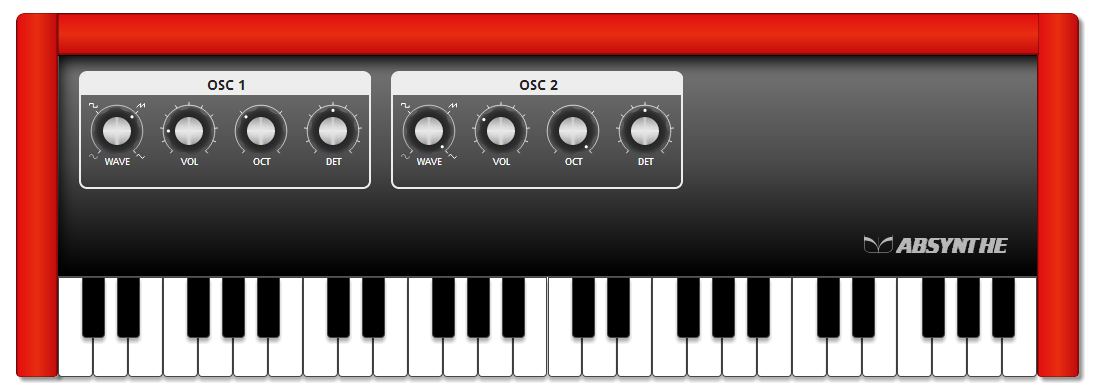
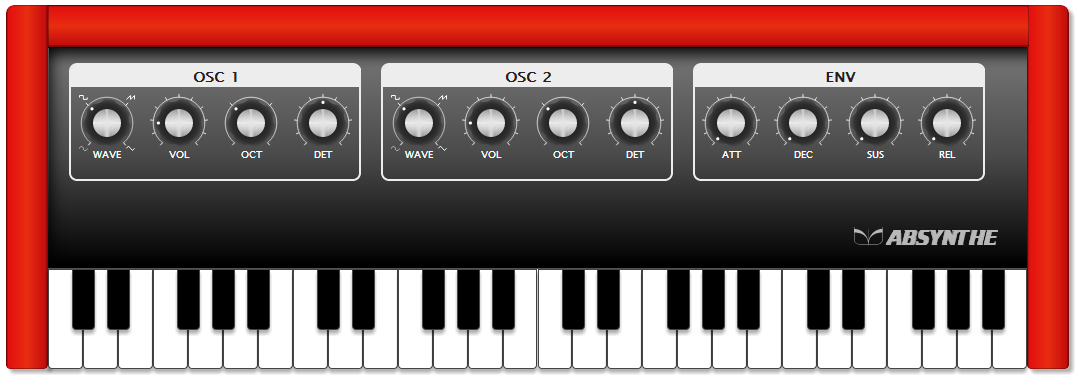
ENV adsr added

diff --git a/css/freakk_synth.css b/css/freakk_synth.css
@@ -16,9 +16,22 @@ form, input, h1, h2, button, label, a, img {
 
 html {
     font:62.5%/1 "Droid Sans", "Lucida Sans Unicode", "Lucida Grande", Verdana, Arial, Helvetica, sans-serif;
-    background-color: hsla(0,0%,90%,1);  
+/*     background-color: hsla(0,0%,90%,1);  
     background-image: linear-gradient(-45deg, hsla(0,0%,0%,0), hsla(0,0%,0%,.05) );
-    background-size: 5px;
+    background-size: 5px; */
+background: rgb(134,140,147); /* Old browsers */
+background: -moz-radial-gradient(center, ellipse cover,  rgba(134,140,147,1) 0%, rgba(107,116,122,1) 36%, rgba(40,52,59,1) 100%); /* FF3.6+ */
+background: -webkit-gradient(radial, center center, 0px, center center, 100%, color-stop(0%,rgba(134,140,147,1)), color-stop(36%,rgba(107,116,122,1)), color-stop(100%,rgba(40,52,59,1))); /* Chrome,Safari4+ */
+background: -webkit-radial-gradient(center, ellipse cover,  rgba(134,140,147,1) 0%,rgba(107,116,122,1) 36%,rgba(40,52,59,1) 100%); /* Chrome10+,Safari5.1+ */
+background: -o-radial-gradient(center, ellipse cover,  rgba(134,140,147,1) 0%,rgba(107,116,122,1) 36%,rgba(40,52,59,1) 100%); /* Opera 12+ */
+background: -ms-radial-gradient(center, ellipse cover,  rgba(134,140,147,1) 0%,rgba(107,116,122,1) 36%,rgba(40,52,59,1) 100%); /* IE10+ */
+background: radial-gradient(ellipse at center,  rgba(134,140,147,1) 0%,rgba(107,116,122,1) 36%,rgba(40,52,59,1) 100%); /* W3C */
+filter: progid:DXImageTransform.Microsoft.gradient( startColorstr='#868c93', endColorstr='#28343b',GradientType=1 ); /* IE6-9 fallback on horizontal gradient */
+
+
+background-size: 100% auto;
+background-repeat: no-repeat;
+height: 100%;
 }
 
 body {
@@ -134,7 +147,7 @@ overflow: hidden;
 }
 
 .frame_left, .frame_right{
-    box-shadow: 4px 4px 4px #999;
+    box-shadow:  4px 4px  4px rgba(0,0,0,0.3);
     background: #8e120e; /* Old browsers */
     background: -moz-linear-gradient(left,  #8e120e 0%, #e20f0f 3%, #e82d10 50%, #c40d0d 97%, #820202 100%); /* FF3.6+ */
     background: -webkit-gradient(linear, left top, right top, color-stop(0%,#8e120e), color-stop(3%,#e20f0f), color-stop(50%,#e82d10), color-stop(97%,#c40d0d), color-stop(100%,#820202)); /* Chrome,Safari4+ */

diff --git a/index.html b/index.html
@@ -61,6 +61,26 @@
                         <div class="knobRing ring10"></div>
                     </div>
                 </div><!-- /OSC 2 -->
+                <!-- ADSR -->
+                <div class="oscControls">
+                    <div class="moduleLabel">ENV</div>
+                    <div id="knob-attack" class="knob" data-role="attack" data-type="continuous" data-value="0"  >
+                        <div class="knobCaption">ATT</div>
+                        <div class="knobRing ring10"></div>
+                    </div>
+                    <div id="knob-decay" class="knob" data-role="decay" data-type="continuous" data-value="0"  >
+                        <div class="knobCaption">DEC</div>
+                        <div class="knobRing ring10"></div>
+                    </div>
+                    <div id="knob-sustain" class="knob" data-role="sustain" data-type="continuous" data-value="0"  >
+                        <div class="knobCaption">SUS</div>
+                        <div class="knobRing ring10"></div>
+                    </div>
+                    <div id="knob-release" class="knob" data-role="release" data-type="continuous" data-value="0"  >
+                        <div class="knobCaption">REL</div>
+                        <div class="knobRing ring10"></div>
+                    </div>
+                </div><!-- /ADSR -->
                 <div class="logoContainer"> <div class="logo"></div></div>
             </div> <!-- /#knobContainer -->
             <div id="keyboardContainer">

diff --git a/lib/knobs/knobs.css b/lib/knobs/knobs.css
@@ -1,21 +1,3 @@
-/* globals */
-
-@import url(http://fonts.googleapis.com/css?family=Droid+Sans:regular,bold);
-
-html {
-  font:62.5%/1 "Droid Sans", "Lucida Sans Unicode", "Lucida Grande", Verdana, Arial, Helvetica, sans-serif;
-  background-color: hsla(0,0%,90%,1);  
-  background-image: linear-gradient(-45deg, hsla(0,0%,0%,0), hsla(0,0%,0%,.05) );
-  background-size: 5px;
-}
-
-body {
-  margin: 100px;
-}
-
-button { border: none; display: block; }
-a { text-decoration: none; display: block; }
-
 /*  DISABLE SELECT AND DRAG */
 html, body, div, span, object,
 form, input, h1, h2, button, label, a, img {
